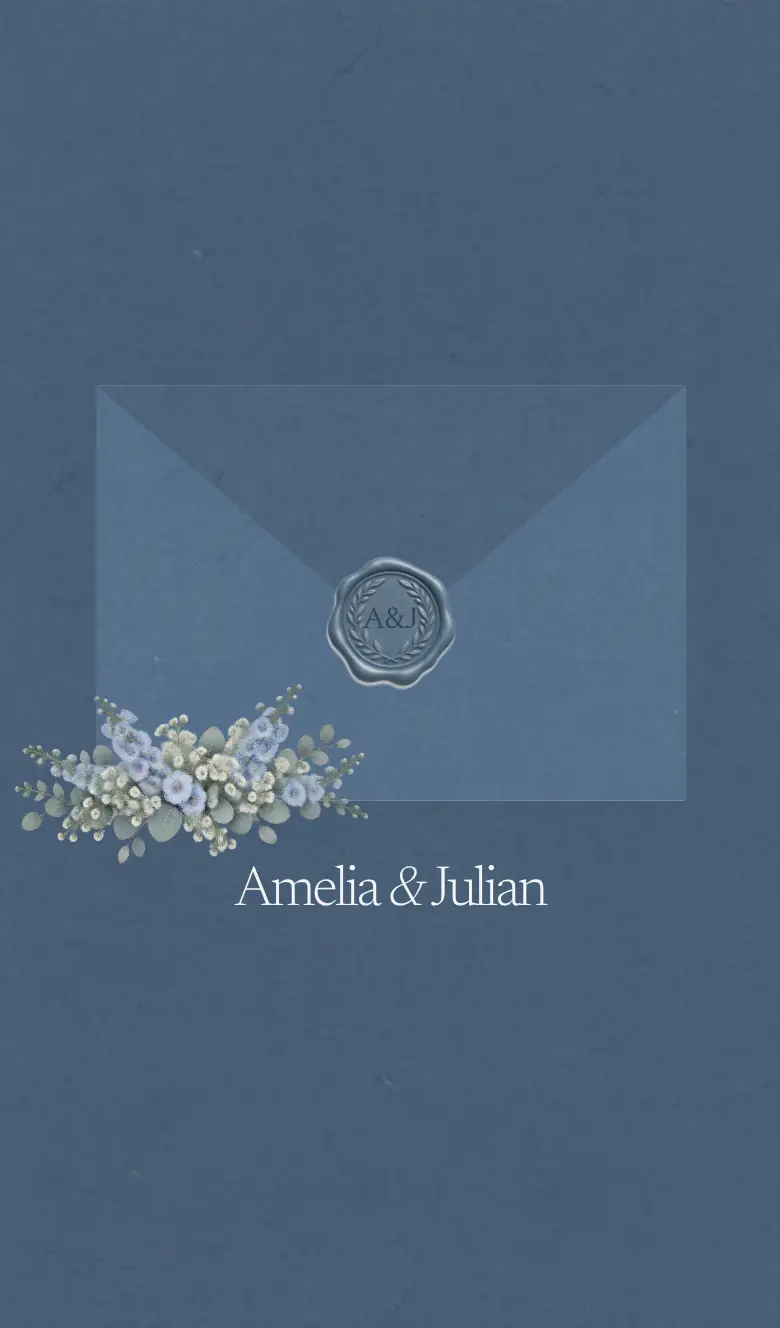
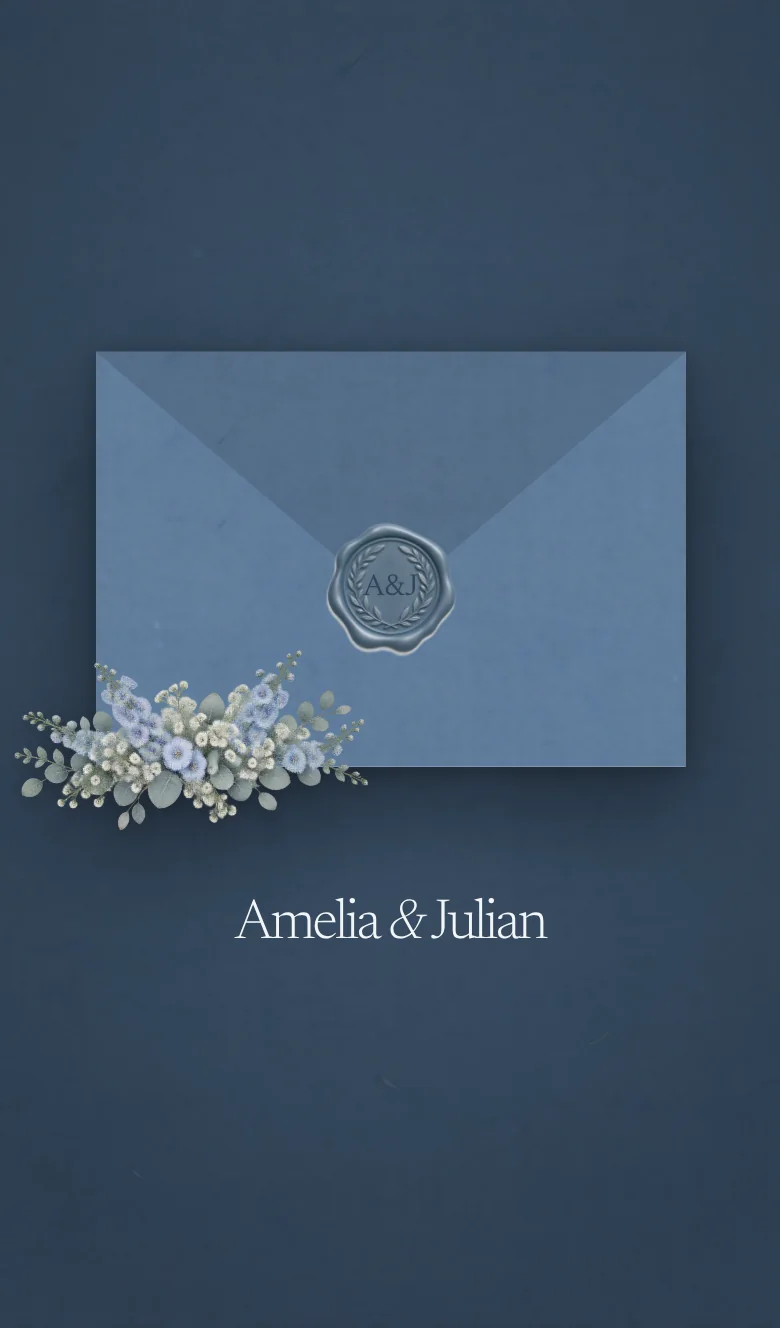
Keep the couple's names clear of the envelope flowers; refresh landing hero
The flowers hang below the envelope and covered the start of the names.
The names now start below them at every screen size, and the envelope is
capped at half the screen height so everything fits on short laptops.
The landing hero images are recaptured with the new papers.

Claude-Session: https://claude.ai/code/session_016MinLwkREeyjyFu6AUwBRi

diff --git a/styles/invite.css b/styles/invite.css
@@ -80,9 +80,8 @@
   transition: opacity 0.7s ease 1.9s, visibility 0s linear 2.6s;
 }
 .env-screen.is-opening { opacity: 0; visibility: hidden; }
-.env-wrap { display: flex; flex-direction: column; align-items: center; text-align: center; width: 100%; }
+.env-wrap { --w: min(90vw, 500px, 50vh * 1.42); display: flex; flex-direction: column; align-items: center; text-align: center; width: 100%; }
 .env {
-  --w: min(90vw, 500px, 58vh * 1.42);
   position: relative; display: block; width: var(--w); aspect-ratio: 1.42 / 1; perspective: 1400px;
   border: 0; padding: 0; background: none; font: inherit; color: inherit; cursor: pointer; -webkit-tap-highlight-color: transparent;
   animation: envIn 1s var(--ease-expo) both;
@@ -113,7 +112,7 @@
   font-size: calc(var(--w) * 0.052); letter-spacing: 0;
 }
 .env-floral { position: absolute; z-index: 7; width: 62%; left: -15%; bottom: -24%; transform: rotate(-6deg); pointer-events: none; user-select: none; }
-.env-names { margin-top: clamp(28px, 6vh, 48px) !important; font-size: var(--step-head); line-height: var(--display-lead); animation: rise 0.9s var(--ease-expo) both 0.25s; }
+.env-names { margin-top: calc(var(--w) * 0.17 + clamp(16px, 3vh, 28px)) !important; position: relative; z-index: 8; font-size: var(--step-head); line-height: var(--display-lead); animation: rise 0.9s var(--ease-expo) both 0.25s; }
 .env-date { margin-top: 10px !important; font-size: var(--step-body); color: var(--on-bg-soft); animation: rise 0.9s var(--ease-expo) both 0.35s; }
 .env-cta { margin-top: clamp(18px, 3vh, 28px) !important; font-size: var(--step-body); font-weight: 500; animation: rise 0.9s var(--ease-expo) both 0.45s; }
 .is-opening .env-names, .is-opening .env-date, .is-opening .env-cta { opacity: 0; transition: opacity 0.4s; }
